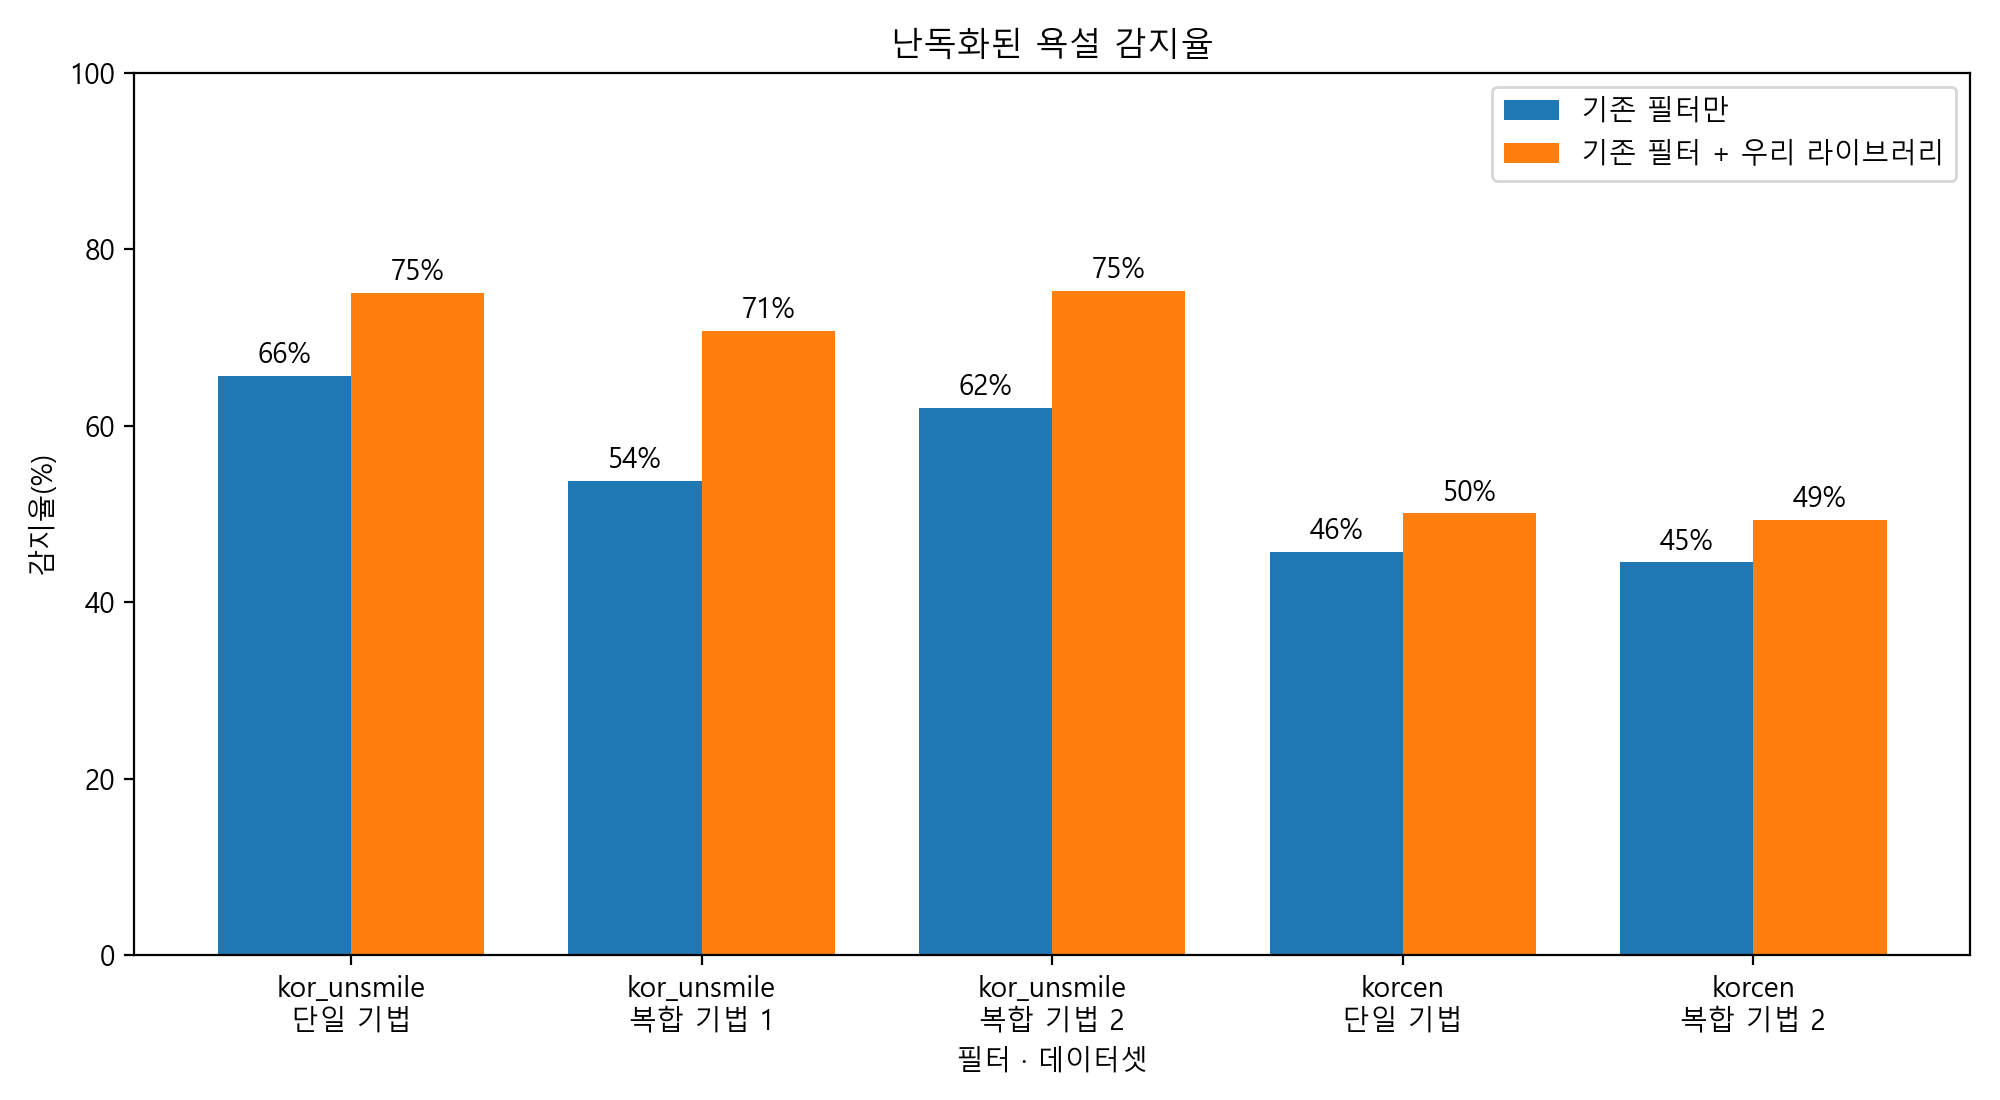
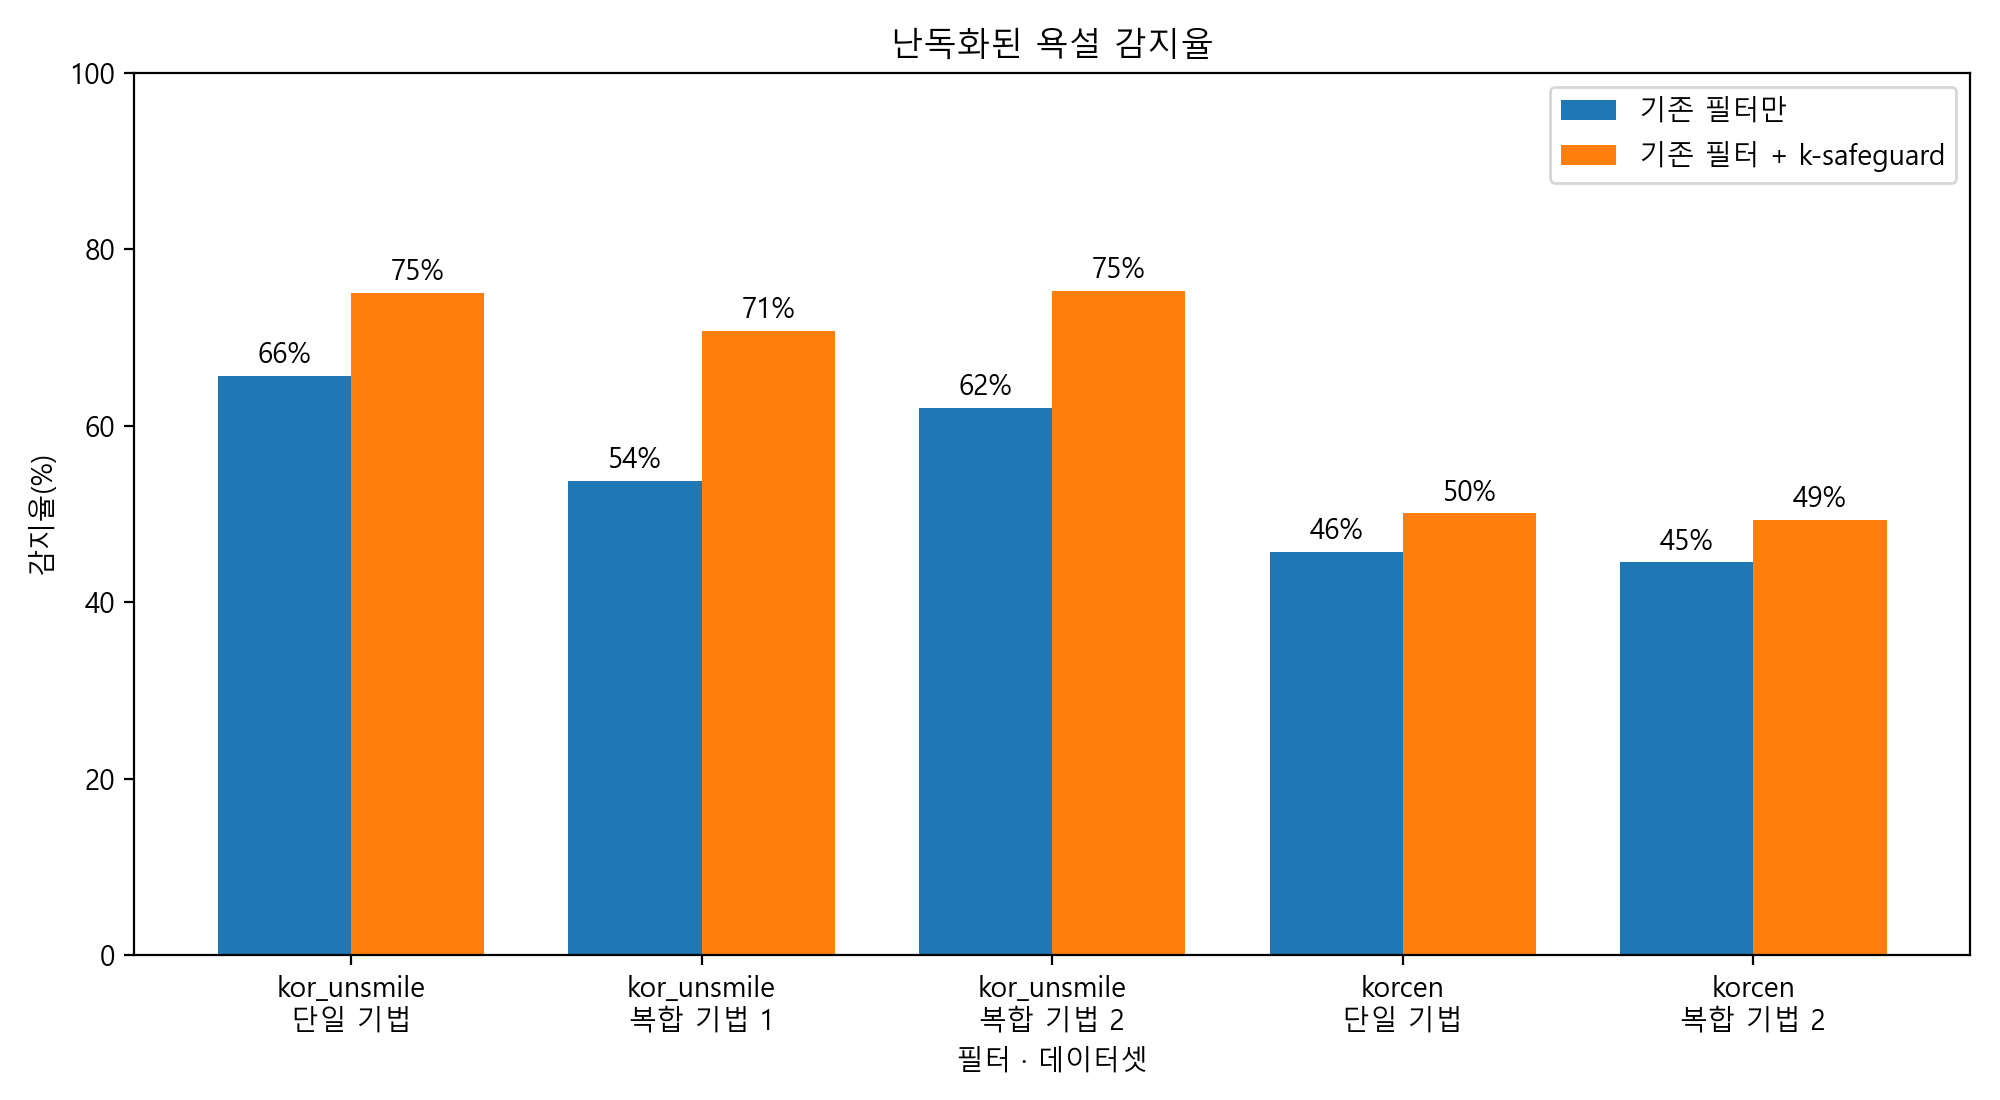
docs(guardrail): P05 슬라이드 범례·문구를 k-safeguard로, 슬라이드 2 제목 단순화

Changed region(s): [[0.744, 0.0618, 0.992, 0.1855]]

diff --git a/guardrail/exp/p05_profanity/make_slides.py b/guardrail/exp/p05_profanity/make_slides.py
@@ -64,7 +64,7 @@ def clean_fpr(base: str, restored: str) -> tuple[float, float]:
 
 
 FIGSIZE = (10, 5.5)
-LABELS = ("기존 필터만", "기존 필터 + 우리 라이브러리")
+LABELS = ("기존 필터만", "기존 필터 + k-safeguard")
 
 
 def grouped(categories, lo, hi, title, xlabel, name, rot=0):
@@ -102,7 +102,7 @@ def slide2() -> dict:
     ns = sorted(k for k in d if d[k][2] > 100)
     xs = [int(k.split("=")[1]) for k in ns]
     lo, hi = [d[k][0] for k in ns], [d[k][1] for k in ns]
-    grouped([f"{x}개" for x in xs], lo, hi, "복합 기법 수별 감지율 (kor_unsmile, 데이터셋 1)", "한 문장에 적용한 기법 수",
+    grouped([f"{x}개" for x in xs], lo, hi, "복합 기법 수별 감지율", "한 문장에 적용한 기법 수",
             "slide_2_mixed.png")
     return {"ns": xs, "lo": lo, "hi": hi}
 
@@ -152,23 +152,23 @@ def text(v1, v2, v3) -> str:
 - **평가 문장**: 공개 커뮤니티 댓글 욕설 데이터(Curse-detection, 5,825문장 중 욕설 2,044문장)
 - **단일 기법**: 욕설 문장마다 난독화 기법 하나씩 적용(24개 기법)
 - **복합 기법**: 한 문장에 난독화 기법 여러 개를 동시에 적용한 것(예: 된소리 + 받침 추가 + 기호 삽입)
-- **복합 기법 · 데이터셋 1**: 한 문장에 기법 1~4개를 적용. 우리 라이브러리가 복원하도록 설계된 9개 유형만 사용
+- **복합 기법 · 데이터셋 1**: 한 문장에 기법 1~4개를 적용. k-safeguard가 복원하도록 설계된 9개 유형만 사용
 - **복합 기법 · 데이터셋 2**: 한 문장에 기법 2~4개를 적용. 복원 범위 밖의 모양 바꾸기(야민정음·닮은 외국문자 등)까지 포함한 더 현실적인 조건
-- **우리 라이브러리 적용 방식**: 기존 필터는 그대로 두고, 원문과 복원문을 둘 다 검사해 하나라도 걸리면 차단
+- **k-safeguard 적용 방식**: 기존 필터는 그대로 두고, 원문과 복원문을 둘 다 검사해 하나라도 걸리면 차단
 - **기존 필터**: kor_unsmile(공개 ML 분류기), korcen(공개 규칙 기반 필터)
 
 ## 슬라이드 1 — `slide_1_detection.png`
 
-- 제목: **우리 라이브러리를 붙이면 난독화된 욕설을 더 잡는다**
+- 제목: **k-safeguard를 붙이면 난독화된 욕설을 더 잡는다**
 - 한 줄 설명: 난독화된 욕설 중 차단된 비율. 기존 필터는 바꾸지 않고 옆에 붙이기만 했다
 - 말할 거리: kor_unsmile 기준 단일 기법 {u('single')}, 데이터셋 1 {u('d1')}, 데이터셋 2 {u('d2')}
 - 각주: 정상 문장을 욕설로 잘못 막는 비율은 거의 그대로(kor_unsmile {f1:.1f}% → {f2:.1f}%)
 
 ## 슬라이드 2 — `slide_2_mixed.png`
 
-- 제목: **기법을 겹칠수록 기존 필터는 무너지고, 우리 라이브러리와의 차이는 벌어진다**
-- 한 줄 설명: kor_unsmile, 한 문장에 적용한 난독화 기법 수별 감지율(복합 기법 데이터셋 1)
-- 말할 거리: 기법 4개를 겹치면 기존 필터는 {v2['lo'][-1]:.0f}%만 잡지만, 우리 라이브러리를 붙이면 {v2['hi'][-1]:.0f}%(+{v2['hi'][-1] - v2['lo'][-1]:.0f}%p)
+- 제목: **기법을 겹칠수록 기존 필터는 무너지고, k-safeguard와의 차이는 벌어진다**
+- 한 줄 설명(그림 제목에서 뺀 조건): kor_unsmile 필터, 복합 기법 데이터셋 1, 한 문장에 적용한 난독화 기법 수별 감지율
+- 말할 거리: 기법 4개를 겹치면 기존 필터는 {v2['lo'][-1]:.0f}%만 잡지만, k-safeguard를 붙이면 {v2['hi'][-1]:.0f}%(+{v2['hi'][-1] - v2['lo'][-1]:.0f}%p)
 - 각주: 데이터셋 2(복원 범위 밖 유형 포함)에서도 +12~14%p 차이 유지
 
 ## 슬라이드 3 — `slide_3_by_type.png`

diff --git a/guardrail/reports/figures/p05/slides_text.md b/guardrail/reports/figures/p05/slides_text.md
@@ -8,23 +8,23 @@
 - **평가 문장**: 공개 커뮤니티 댓글 욕설 데이터(Curse-detection, 5,825문장 중 욕설 2,044문장)
 - **단일 기법**: 욕설 문장마다 난독화 기법 하나씩 적용(24개 기법)
 - **복합 기법**: 한 문장에 난독화 기법 여러 개를 동시에 적용한 것(예: 된소리 + 받침 추가 + 기호 삽입)
-- **복합 기법 · 데이터셋 1**: 한 문장에 기법 1~4개를 적용. 우리 라이브러리가 복원하도록 설계된 9개 유형만 사용
+- **복합 기법 · 데이터셋 1**: 한 문장에 기법 1~4개를 적용. k-safeguard가 복원하도록 설계된 9개 유형만 사용
 - **복합 기법 · 데이터셋 2**: 한 문장에 기법 2~4개를 적용. 복원 범위 밖의 모양 바꾸기(야민정음·닮은 외국문자 등)까지 포함한 더 현실적인 조건
-- **우리 라이브러리 적용 방식**: 기존 필터는 그대로 두고, 원문과 복원문을 둘 다 검사해 하나라도 걸리면 차단
+- **k-safeguard 적용 방식**: 기존 필터는 그대로 두고, 원문과 복원문을 둘 다 검사해 하나라도 걸리면 차단
 - **기존 필터**: kor_unsmile(공개 ML 분류기), korcen(공개 규칙 기반 필터)
 
 ## 슬라이드 1 — `slide_1_detection.png`
 
-- 제목: **우리 라이브러리를 붙이면 난독화된 욕설을 더 잡는다**
+- 제목: **k-safeguard를 붙이면 난독화된 욕설을 더 잡는다**
 - 한 줄 설명: 난독화된 욕설 중 차단된 비율. 기존 필터는 바꾸지 않고 옆에 붙이기만 했다
 - 말할 거리: kor_unsmile 기준 단일 기법 66% → 75%, 데이터셋 1 54% → 71%, 데이터셋 2 62% → 75%
 - 각주: 정상 문장을 욕설로 잘못 막는 비율은 거의 그대로(kor_unsmile 12.5% → 13.0%)
 
 ## 슬라이드 2 — `slide_2_mixed.png`
 
-- 제목: **기법을 겹칠수록 기존 필터는 무너지고, 우리 라이브러리와의 차이는 벌어진다**
-- 한 줄 설명: kor_unsmile, 한 문장에 적용한 난독화 기법 수별 감지율(복합 기법 데이터셋 1)
-- 말할 거리: 기법 4개를 겹치면 기존 필터는 46%만 잡지만, 우리 라이브러리를 붙이면 66%(+20%p)
+- 제목: **기법을 겹칠수록 기존 필터는 무너지고, k-safeguard와의 차이는 벌어진다**
+- 한 줄 설명(그림 제목에서 뺀 조건): kor_unsmile 필터, 복합 기법 데이터셋 1, 한 문장에 적용한 난독화 기법 수별 감지율
+- 말할 거리: 기법 4개를 겹치면 기존 필터는 46%만 잡지만, k-safeguard를 붙이면 66%(+20%p)
 - 각주: 데이터셋 2(복원 범위 밖 유형 포함)에서도 +12~14%p 차이 유지
 
 ## 슬라이드 3 — `slide_3_by_type.png`
